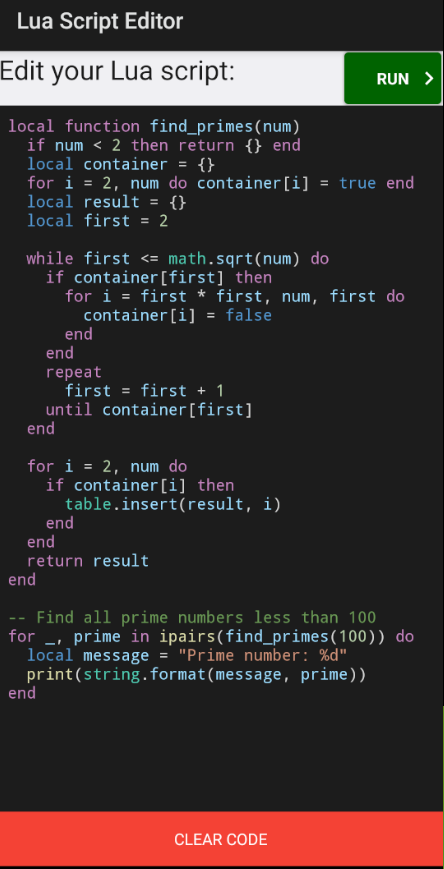
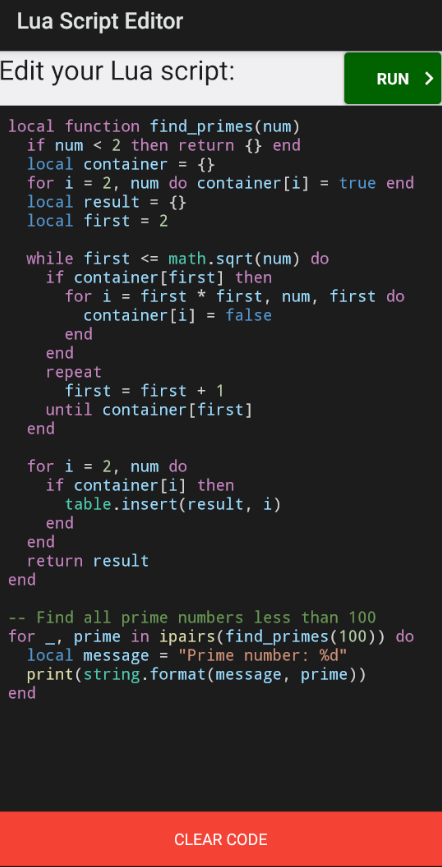
Add files via upload

diff --git a/MainActivity.cs b/MainActivity.cs
@@ -102,7 +102,7 @@ public sealed partial class MainActivity : Activity
     [GeneratedRegex(@"\b(local|nil|true|false|and|or|not)\b", RegexOptions.Compiled)]
     private static partial Regex GeneralKeywordRegex();
 
-    [GeneratedRegex(@"\b(assert|collectgarbage|dofile|error|(get|set)metatable|i?pairs|load(file)?|next|x?pcall|print|raw(equal|get|len|set)|select|to(number|string)|type|unpack)\b", RegexOptions.Compiled)]
+    [GeneratedRegex(@"\b(assert|collectgarbage|dofile|error|(get|set)metatable|i?pairs|load(file)?|next|x?pcall|print|require|raw(equal|get|len|set)|select|to(number|string)|type|unpack)\b", RegexOptions.Compiled)]
     private static partial Regex BuiltinFuncRegex();
 
     [GeneratedRegex(@"\b(break|do|else|elseif|end|for|(local )?function|goto|if|in|repeat|return|then|until|while)\b", RegexOptions.Compiled)]
@@ -117,7 +117,7 @@ public sealed partial class MainActivity : Activity
     [GeneratedRegex(@"\b\d+(\.\d+)?\b", RegexOptions.Compiled)]
     private static partial Regex NumberRegex();
 
-    [GeneratedRegex(@"\b(math|coroutine|table|os|string|package|debug|io|bit32|utf8)\b", RegexOptions.Compiled)]
+    [GeneratedRegex(@"\b(math|coroutine|table|os|string|package|debug|io|utf8)\b", RegexOptions.Compiled)]
     private static partial Regex BuiltinTableRegex();
 
     private bool isHighlighting = false;

diff --git a/README.md b/README.md
@@ -51,8 +51,9 @@ The editor supports highlighting for:
 - Comments (single-line and multi-line)
 
 ## Known Limitations
-- No `input` function support (not even FFI or LuaJIT)
+- No `input` function or `bit32` module support (not even FFI or LuaJIT)
 - Limited error recovery for malformed scripts
+- Limited usage of the `require` function
 - No file save/load functionality
 - No auto-completion
 
